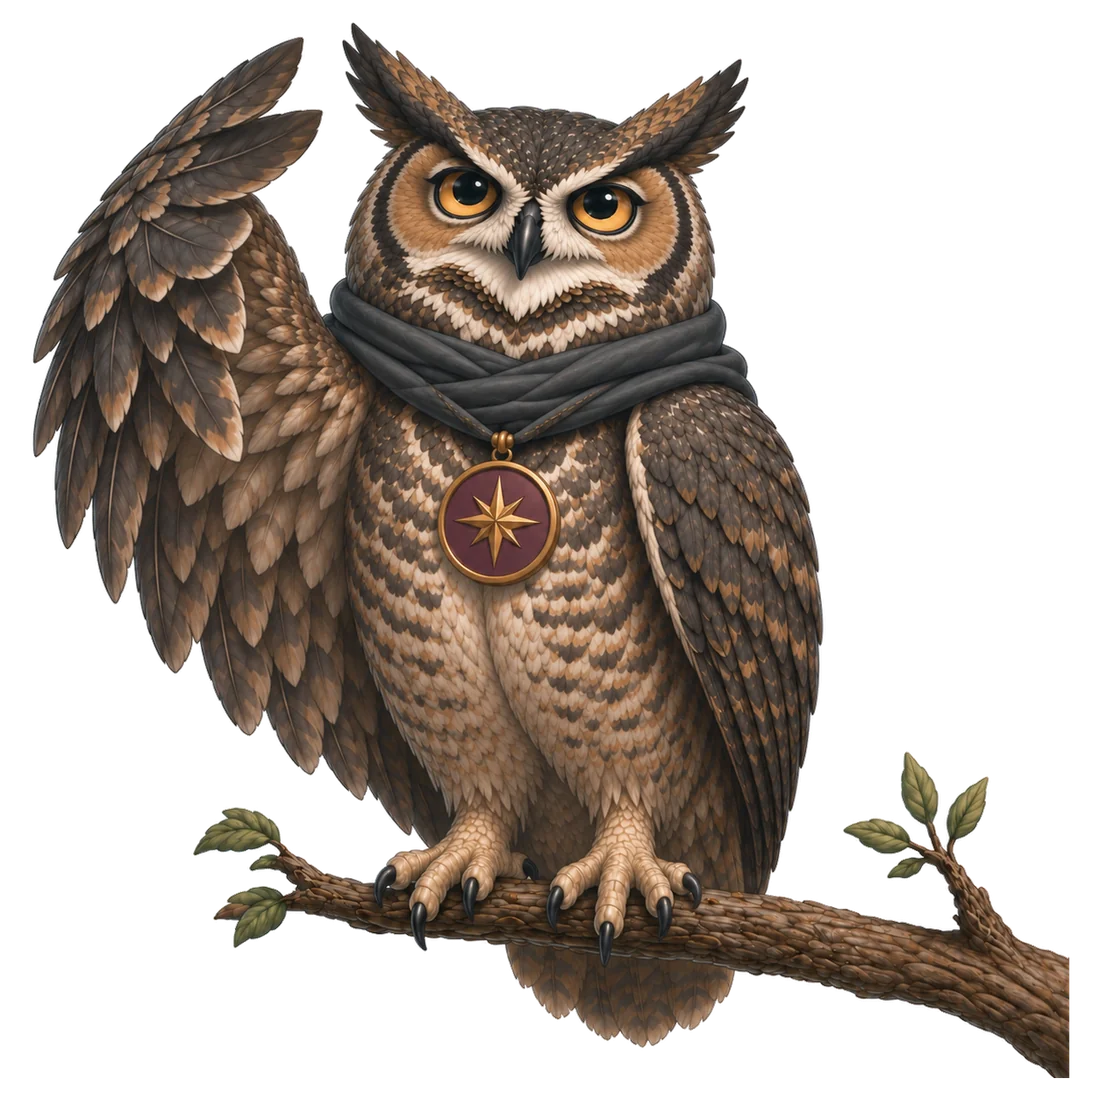
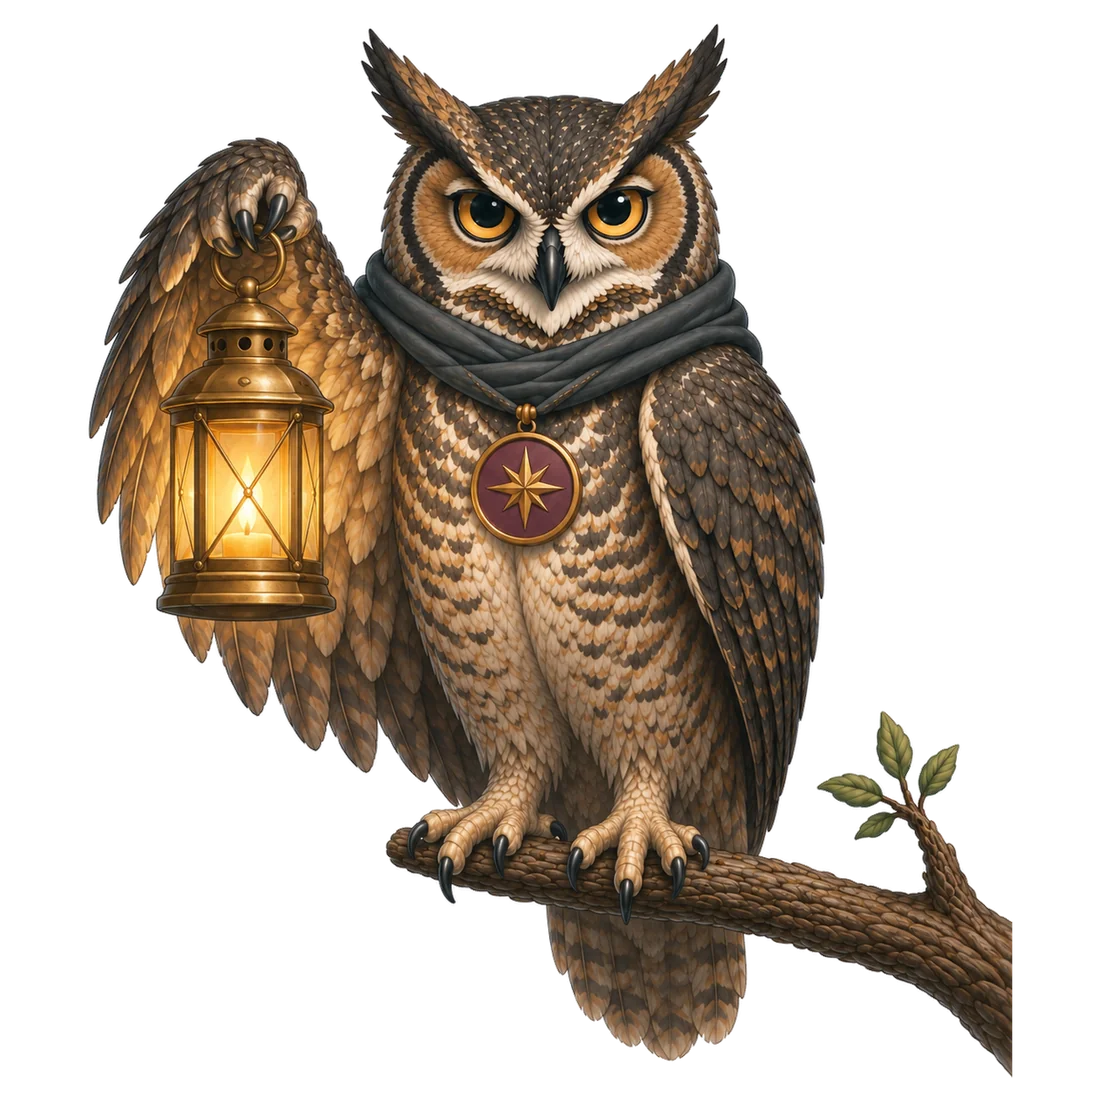
Give the eleven stand-ins their own art.
The 8 Sep drop had no lantern, map, sign, greet or firm look for Mother, no
plain, think, open book or greet for Roaster, and no lantern or sign for
Challenger, so eleven poses were being answered by the nearest picture in
character. The follow-up drop covers all eleven. Every guide now has thirteen
poses that are the pose they say they are, and guide-set-map.json has no
_substitutes left in it.

Same pipeline as the first drop: the follow-up arrived opaque on white at two
aspect ratios again, so it went through prep-guide-art.py to be cut out,
squared and merged into the numbered set as 91-101, and the stand-ins it
displaced went back to the bench rather than being deleted — Roaster now
carries nine spares, Mother six.

Checked in the running app: all eleven serve 200 as 1100x1100 WebP, 133-183KB.

diff --git a/src/data/guideAnchors.generated.js b/src/data/guideAnchors.generated.js
@@ -42,7 +42,7 @@ export const GUIDE_ANCHORS = {
   'Challenger_armsCross': { box: [0.095, 0.02, 0.905, 0.98], face: [0.202, 0.02, 0.58, 0.271], speak: [0.39, 0.078] },
   'Challenger_greet': { box: [0.025, 0.02, 0.975, 0.98], face: [0.33, 0.02, 0.71, 0.271], speak: [0.52, 0.078] },
   'Challenger_idle': { box: [0.102, 0.02, 0.898, 0.98], face: [0.213, 0.02, 0.598, 0.271], speak: [0.405, 0.078] },
-  'Challenger_lantern': { box: [0.027, 0.02, 0.973, 0.98], face: [0.209, 0.02, 0.669, 0.271], speak: [0.439, 0.078] },
+  'Challenger_lantern': { box: [0.079, 0.02, 0.921, 0.98], face: [0.321, 0.02, 0.672, 0.271], speak: [0.496, 0.078] },
   'Challenger_mad': { box: [0.02, 0.043, 0.981, 0.956], face: [0.332, 0.043, 0.72, 0.281], speak: [0.525, 0.098] },
   'Challenger_map': { box: [0.066, 0.02, 0.933, 0.98], face: [0.242, 0.02, 0.62, 0.271], speak: [0.43, 0.078] },
   'Challenger_page': { box: [0.085, 0.02, 0.915, 0.98], face: [0.225, 0.02, 0.622, 0.271], speak: [0.423, 0.078] },
@@ -50,7 +50,7 @@ export const GUIDE_ANCHORS = {
   'Challenger_point': { box: [0.02, 0.036, 0.98, 0.963], face: [0.338, 0.036, 0.703, 0.278], speak: [0.52, 0.092] },
   'Challenger_pointUp': { box: [0.027, 0.02, 0.973, 0.98], face: [0.265, 0.02, 0.664, 0.271], speak: [0.464, 0.078] },
   'Challenger_read': { box: [0.084, 0.02, 0.915, 0.98], face: [0.21, 0.02, 0.605, 0.271], speak: [0.407, 0.078] },
-  'Challenger_sign': { box: [0.04, 0.02, 0.96, 0.98], face: [0.276, 0.02, 0.672, 0.271], speak: [0.474, 0.078] },
+  'Challenger_sign': { box: [0.119, 0.02, 0.881, 0.98], face: [0.309, 0.02, 0.629, 0.271], speak: [0.469, 0.078] },
   'Challenger_think': { box: [0.045, 0.02, 0.955, 0.98], face: [0.275, 0.02, 0.675, 0.271], speak: [0.475, 0.078] },
   'Mentor_armsCross': { box: [0.08, 0.02, 0.921, 0.98], face: [0.181, 0.02, 0.554, 0.271], speak: [0.367, 0.078] },
   'Mentor_greet': { box: [0.099, 0.02, 0.902, 0.98], face: [0.34, 0.02, 0.688, 0.271], speak: [0.514, 0.078] },
@@ -66,31 +66,31 @@ export const GUIDE_ANCHORS = {
   'Mentor_sign': { box: [0.115, 0.02, 0.884, 0.98], face: [0.315, 0.02, 0.667, 0.271], speak: [0.49, 0.078] },
   'Mentor_think': { box: [0.105, 0.02, 0.894, 0.98], face: [0.165, 0.02, 0.747, 0.271], speak: [0.456, 0.078] },
   'Mother_armsCross': { box: [0.028, 0.02, 0.972, 0.98], face: [0.191, 0.02, 0.681, 0.271], speak: [0.435, 0.078] },
-  'Mother_greet': { box: [0.051, 0.02, 0.948, 0.98], face: [0.156, 0.02, 0.646, 0.271], speak: [0.401, 0.078] },
+  'Mother_greet': { box: [0.033, 0.02, 0.967, 0.98], face: [0.271, 0.02, 0.7, 0.271], speak: [0.485, 0.078] },
   'Mother_idle': { box: [0.025, 0.02, 0.975, 0.98], face: [0.187, 0.02, 0.659, 0.271], speak: [0.423, 0.078] },
-  'Mother_lantern': { box: [0.06, 0.02, 0.94, 0.98], face: [0.154, 0.02, 0.642, 0.271], speak: [0.397, 0.078] },
-  'Mother_mad': { box: [0.043, 0.02, 0.956, 0.98], face: [0.169, 0.02, 0.654, 0.271], speak: [0.411, 0.078] },
-  'Mother_map': { box: [0.054, 0.02, 0.946, 0.98], face: [0.129, 0.02, 0.625, 0.271], speak: [0.376, 0.078] },
+  'Mother_lantern': { box: [0.065, 0.02, 0.935, 0.98], face: [0.277, 0.02, 0.701, 0.271], speak: [0.489, 0.078] },
+  'Mother_mad': { box: [0.085, 0.02, 0.915, 0.98], face: [0.284, 0.02, 0.715, 0.271], speak: [0.499, 0.078] },
+  'Mother_map': { box: [0.095, 0.02, 0.905, 0.98], face: [0.202, 0.02, 0.665, 0.271], speak: [0.433, 0.078] },
   'Mother_page': { box: [0.047, 0.02, 0.954, 0.98], face: [0.159, 0.02, 0.647, 0.271], speak: [0.403, 0.078] },
   'Mother_plain': { box: [0.053, 0.02, 0.948, 0.98], face: [0.144, 0.02, 0.615, 0.271], speak: [0.379, 0.078] },
   'Mother_point': { box: [0.021, 0.037, 0.98, 0.962], face: [0.236, 0.037, 0.684, 0.278], speak: [0.46, 0.093] },
   'Mother_pointUp': { box: [0.05, 0.02, 0.951, 0.98], face: [0.129, 0.02, 0.599, 0.271], speak: [0.364, 0.078] },
   'Mother_read': { box: [0.036, 0.02, 0.963, 0.98], face: [0.158, 0.02, 0.654, 0.271], speak: [0.405, 0.078] },
-  'Mother_sign': { box: [0.031, 0.02, 0.969, 0.98], face: [0.163, 0.02, 0.668, 0.271], speak: [0.415, 0.078] },
+  'Mother_sign': { box: [0.091, 0.02, 0.909, 0.98], face: [0.285, 0.02, 0.687, 0.271], speak: [0.486, 0.078] },
   'Mother_think': { box: [0.054, 0.02, 0.946, 0.98], face: [0.184, 0.02, 0.632, 0.271], speak: [0.407, 0.078] },
   'Roaster_armsCross': { box: [0.182, 0.02, 0.818, 0.98], face: [0.215, 0.02, 0.566, 0.271], speak: [0.39, 0.078] },
-  'Roaster_greet': { box: [0.176, 0.02, 0.824, 0.98], face: [0.326, 0.02, 0.674, 0.271], speak: [0.5, 0.078] },
+  'Roaster_greet': { box: [0.118, 0.02, 0.881, 0.98], face: [0.353, 0.02, 0.67, 0.271], speak: [0.511, 0.078] },
   'Roaster_idle': { box: [0.166, 0.02, 0.833, 0.98], face: [0.326, 0.02, 0.644, 0.271], speak: [0.485, 0.078] },
   'Roaster_lantern': { box: [0.159, 0.02, 0.842, 0.98], face: [0.283, 0.02, 0.639, 0.271], speak: [0.46, 0.078] },
   'Roaster_mad': { box: [0.161, 0.02, 0.84, 0.98], face: [0.297, 0.02, 0.725, 0.271], speak: [0.51, 0.078] },
   'Roaster_map': { box: [0.163, 0.02, 0.836, 0.98], face: [0.353, 0.02, 0.677, 0.271], speak: [0.515, 0.078] },
   'Roaster_page': { box: [0.169, 0.02, 0.831, 0.98], face: [0.329, 0.02, 0.686, 0.271], speak: [0.507, 0.078] },
-  'Roaster_plain': { box: [0.168, 0.02, 0.831, 0.98], face: [0.2, 0.02, 0.685, 0.271], speak: [0.442, 0.078] },
+  'Roaster_plain': { box: [0.179, 0.02, 0.821, 0.98], face: [0.282, 0.02, 0.65, 0.271], speak: [0.465, 0.078] },
   'Roaster_point': { box: [0.199, 0.02, 0.8, 0.98], face: [0.318, 0.02, 0.655, 0.271], speak: [0.486, 0.078] },
   'Roaster_pointUp': { box: [0.175, 0.02, 0.825, 0.98], face: [0.317, 0.02, 0.665, 0.271], speak: [0.49, 0.078] },
-  'Roaster_read': { box: [0.165, 0.02, 0.834, 0.98], face: [0.339, 0.02, 0.7, 0.271], speak: [0.519, 0.078] },
+  'Roaster_read': { box: [0.19, 0.02, 0.81, 0.98], face: [0.31, 0.02, 0.649, 0.271], speak: [0.479, 0.078] },
   'Roaster_sign': { box: [0.169, 0.02, 0.831, 0.98], face: [0.214, 0.02, 0.665, 0.271], speak: [0.439, 0.078] },
-  'Roaster_think': { box: [0.155, 0.02, 0.845, 0.98], face: [0.33, 0.02, 0.666, 0.271], speak: [0.498, 0.078] },
+  'Roaster_think': { box: [0.205, 0.02, 0.796, 0.98], face: [0.298, 0.02, 0.645, 0.271], speak: [0.471, 0.078] },
 };
 
 // The fallback is the average of the set. It is only reached if a pose is
